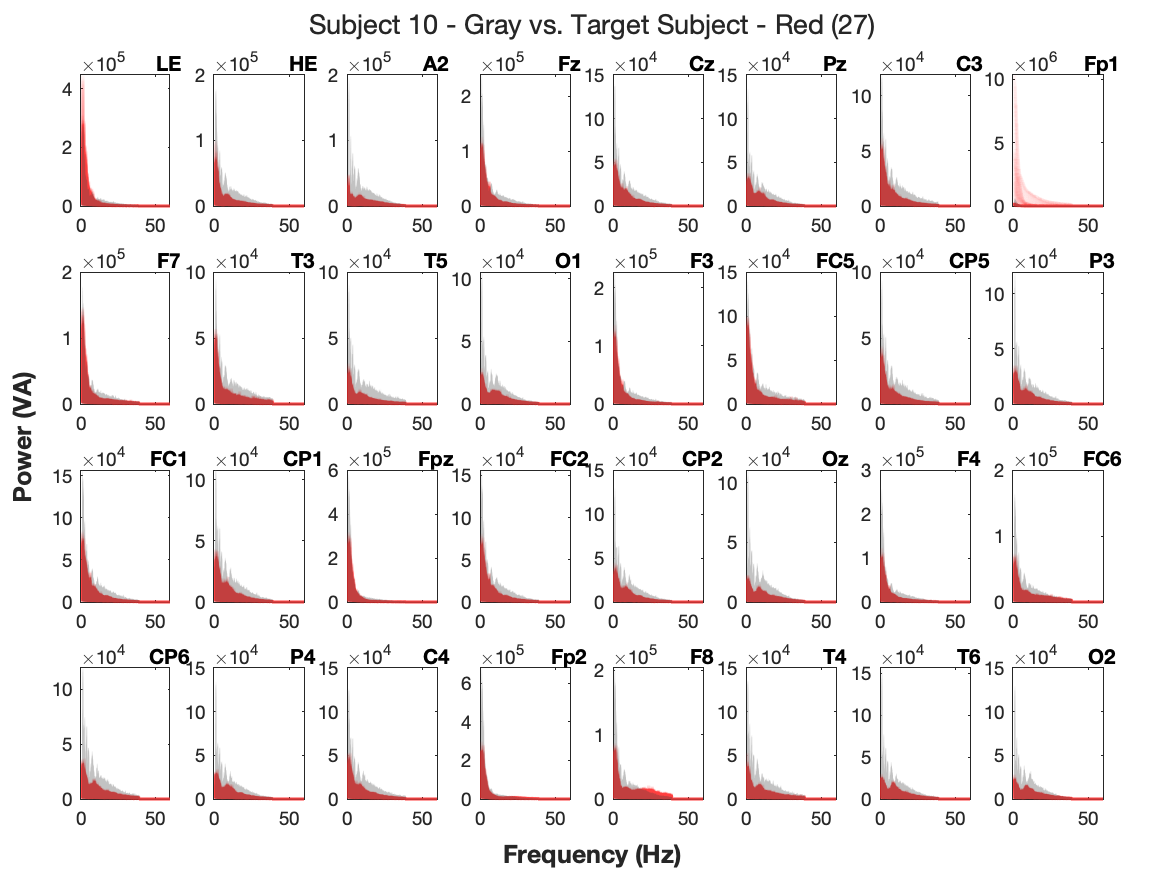
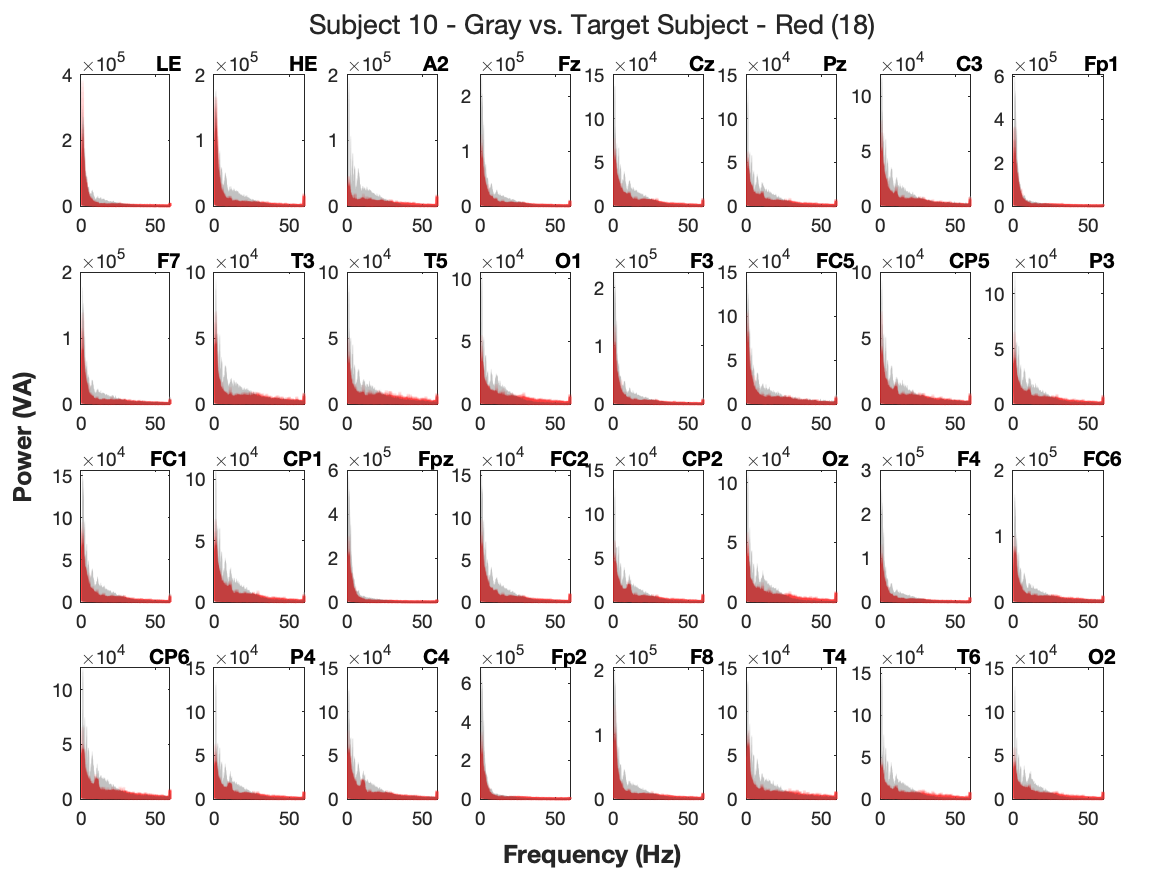
plot the polar form as well for comparison

diff --git a/EEG Analysis & Visualization/ip_final_display.m b/EEG Analysis & Visualization/ip_final_display.m
@@ -1,24 +1,16 @@
-function ip_final_display(subject_num, low, upper, noise_num, freqs, power_spec)
+function ip_final_display( ...
+    filtered_data, invalid_num, subject_num, channels_num, noise_num, ...
+    low, upper, freqs, power_spec, labels)
     % compare the target to all of the subjects 
     % Data Packaging 
 
     %% Initialization 
     fprintf("\n<strong>Final Analysis Results:</strong>\n\n");
     subject_count = 27; % There are a total of 27 subjects with 3 missing data 
-    invalid_num = [14 15 25]; % no subjects found 
     current_subject = 1; % subjects to iterate through, starting from 1
-    currentPath = "/Users/mixuan/Desktop/Ulty_Multy"; % data directory 
-    resultsPath = "/Users/mixuan/Desktop/Ulty_Multy/Results"; % results directory 
-    channels_num = 32; % number of channels in the given data 
     
-    %% ip_brain_plot.m
-    channels = readtable(sprintf("data/sub-%d/eeg/sub-%d_task-SemanticCategorization_channels.tsv", subject_num, subject_num), "FileType", "text", "Delimiter", "\t");
-    labels = channels.name;
-    % names of the 32 channels 
-
     % iterate through each subject to analyze and get the data 
     while current_subject <= subject_count
-        %% ip_subject_info.m
         % check if the current subject is the target subject 
         current_subject = current_subject + (current_subject == subject_num) * (current_subject < subject_count);
         % check if the subject number is invalid 
@@ -28,46 +20,19 @@ function ip_final_display(subject_num, low, upper, noise_num, freqs, power_spec)
             end
         end
         
-        %% ip_data_filter 
-        % filter each subject data with the bandwith given to the target
-        % subject 
-        fileName = "sub-" + int2str(current_subject) + "_task-SemanticCategorization_eeg.set"; % the file for reading EEG data
-        filePath = fullfile(currentPath, "data", "sub-" + int2str(current_subject), "eeg"); % the path for the EEG data file 
-        cd(filePath); % change to file directory 
-        EEG = pop_loadset(char(fileName)); % load eeg data list from the current subject 
-        cd(currentPath) % back to script directory 
-        % bandpass filter 
-        if low ~= 0 && upper ~= 0
-            % both "low ~= 0" and "upper ~= 0" are numeric scales ->
-            % use && instead of & for performance 
-            EEG = pop_eegfiltnew(EEG, low, upper); % Bandpass filter in the desired Hz range 
-        end
-        % noise removal 
-        if noise_num ~= 0
-            EEG = pop_eegfiltnew(EEG, noise_num - 1, noise_num + 1, [], 1); % notch filter 
+        if current_subject == subject_num
+            EEG = filtered_data;
+        else
+            % data filtering 
+            EEG = ip_eeg_load(current_subject);
+            EEG = ip_data_filter(EEG, low, upper, noise_num);
         end
         
-        %% ip_time_frequency_analysis.m 
-        fig = figure("Visible", "off"); % Set the figure to be invisible 
-        layout = tiledlayout(4, 8, 'Padding', 'compact', 'TileSpacing', 'compact'); % % 4 rows, 8 columns for 32 subplots
-        for ch = 1:channels_num
-            % Wavelet Decomposition for each channel 
-            power_data = timefreq(EEG.data(ch, :), EEG.srate, 'freqs', [1, 60]); % power data for this specific channel 
-            % only need the power data, neglecting the frequency 
-            nexttile;
-            plot(freqs, abs(power_data), 'Color', [0.7, 0.7, 0.7, 0.03]); % Compared subject data in gray 
-            hold on; % stay on the same figure 
-            plot(freqs, abs(power_spec{ch}), 'Color', [1, 0, 0, 0.006], "LineWidth", 1.5); % Target subject data in red
-            title(sprintf("%s", labels{ch}), "FontWeight", "bold", 'Units', 'normalized', 'Position', [1, 1, 1]); % Channel name for each subplot 
-        end 
-
-        % Graph formatting for all subplots 
-        xlabel(layout, "Frequency (Hz)", "FontWeight", "bold"); % overall y label 
-        ylabel(layout, "Power (VA)", "FontWeight", "bold"); % overall x label 
-        title(layout, sprintf("Subject %i - Gray vs. Target Subject - Red (%i)", current_subject, subject_num)); % overall title 
+        % Results - Absolute Power 
+        ip_powerline_graph(current_subject, subject_num, "absolute", EEG, freqs, power_spec, labels, channels_num);
         
-        saveas(fig, fullfile(resultsPath, sprintf("output_%i.png", current_subject))); % save the graph file 
-        close(fig); % close the current figure 
+        % Results - Polar 
+        ip_powerline_graph(current_subject, subject_num, "polar", EEG, freqs, power_spec, labels, channels_num);
 
         fprintf("\n<strong>Final display progress: subject %i</strong>\n\n", current_subject);
         current_subject = current_subject + 1; % change to the next subject 
